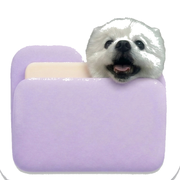
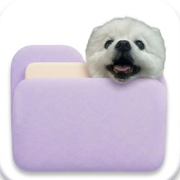
아이콘 털 하얗게 뜨는 문제 수정
Claude-Session: https://claude.ai/code/session_01SjMTVJBsn9qrNUbrSzdNzU

diff --git a/index.html b/index.html
@@ -11,8 +11,8 @@
 <meta name="apple-mobile-web-app-title" content="스크랩북">
 <meta name="apple-mobile-web-app-status-bar-style" content="default">
 <link rel="manifest" href="manifest.webmanifest">
-<link rel="apple-touch-icon" href="icon-180.png?v=2">
-<link rel="icon" type="image/png" href="icon-192.png?v=2">
+<link rel="apple-touch-icon" href="icon-180.png?v=3">
+<link rel="icon" type="image/png" href="icon-192.png?v=3">
 <style>
     :root {
     /* 메인: 블루 (132,162,192) · 서브: 핑크 (245,182,199) · 화이트 (255,255,255) */
